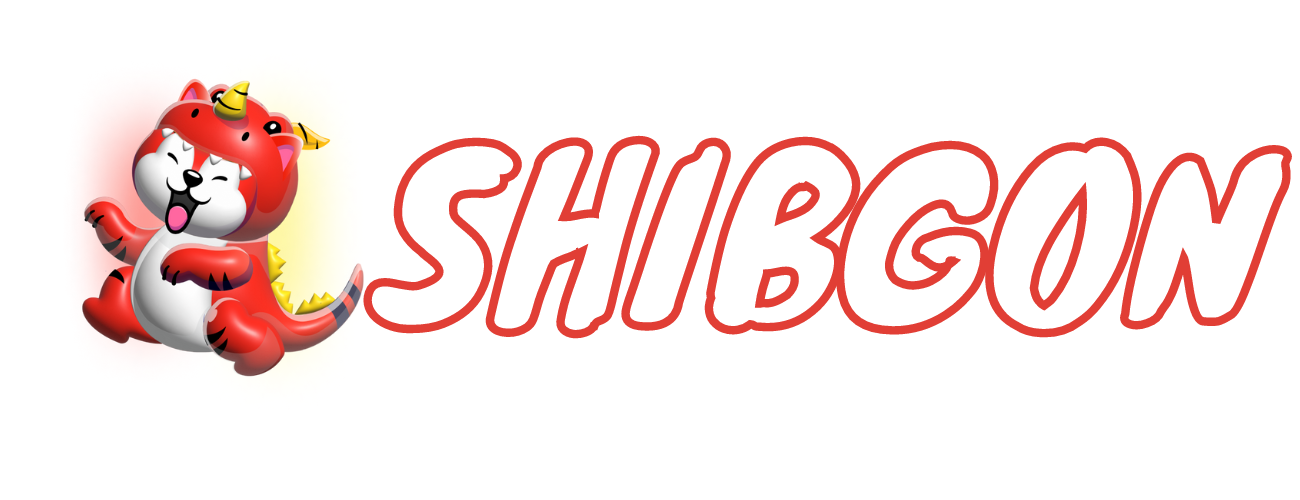
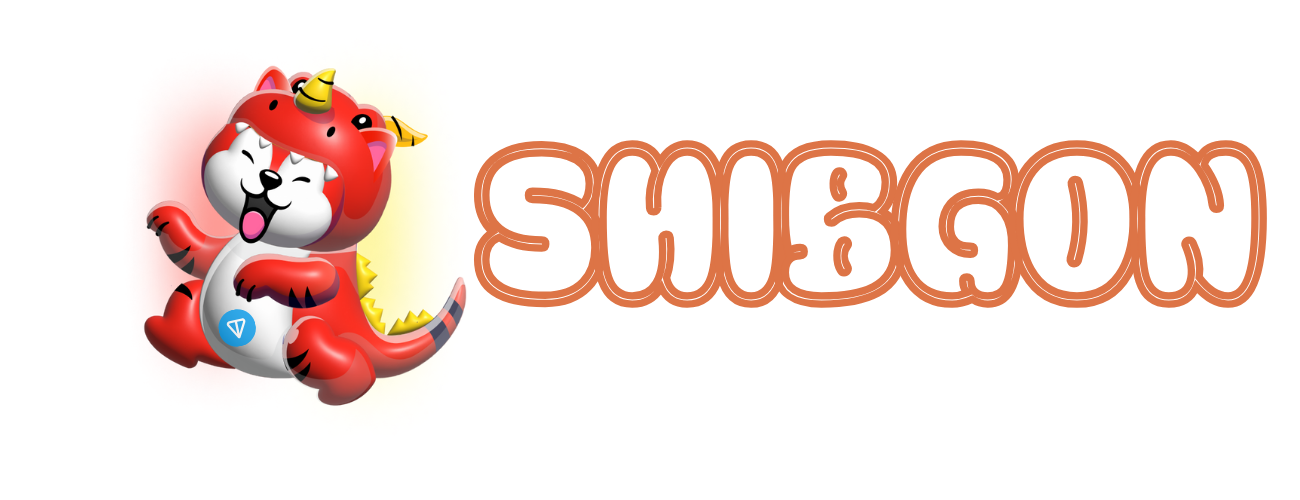
fix

Changed region(s): [[0.0615, 0.12, 1.0, 0.81]]

diff --git a/index.html b/index.html
@@ -14,7 +14,7 @@
     <header>
         <div class="container">
             <a href="index.html" class="header__logo">
-                <img src="images/shibgon text 33.png" alt>
+                <img src="images/shibgon text.png" alt>
             </a>
             <div class="mobile-btn">
                 <svg class="default" xmlns="http://www.w3.org/2000/svg" width="40" height="40" viewBox="0 0 40 40"
@@ -67,10 +67,11 @@
                 </svg>
 
 
-                <h1 class="wow animate__bounceIn">
+                <h1 style="display: flex;justify-content: center;align-items: center;flex-wrap: wrap;" class="wow animate__bounceIn">
                     <img src="images/shibgon text (1).png" alt>
+                        <img style="width: 100px;" src="images/ton3d2.webp" alt>
                 </h1>
-                <h3 class="wow animate__bounceIn">Introducing SHIBGON - The Mythical
+                <h3 class="wow animate__bounceIn">Introducing SHIBGON ON TON - The Mythical
                     Meme Coin on Ton!
 
                 </h3>
